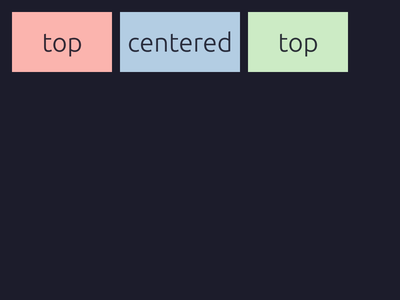
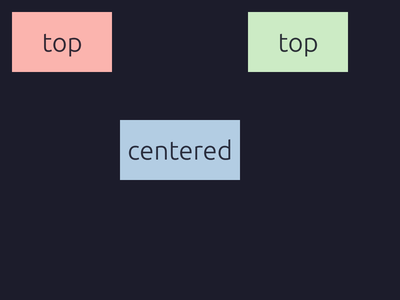
Move flexplore-core to workspace root
crates/flexplore-core/ → flexplore-core/ — simpler layout without the
extra nesting directory.

Changed region(s): [[0.3, 0.39, 0.6, 0.6], [0.3, 0.03, 0.6, 0.24]]

diff --git a/testdata/align_self_center/expected.swift b/testdata/align_self_center/expected.swift
@@ -13,7 +13,7 @@ struct ContentView: View {
                 .frame(width: 120.0, height: 60.0)
                 .padding(8.0)
                 .background(Color(red: 0.70, green: 0.80, blue: 0.89))
-                /* align-self: Center — override manually with .alignmentGuide() */
+                .frame(maxHeight: .infinity, alignment: .center)
             Text("top")
                 .font(.system(size: 26))
                 .foregroundColor(Color(red: 0.05, green: 0.05, blue: 0.1).opacity(0.85))

diff --git a/tools/egui-golden/src/main.rs b/tools/egui-golden/src/main.rs
@@ -16,8 +16,8 @@ use egui::{Align, Color32, Layout, Vec2};
 
 mod config;
 use config::{
-    AlignItems, ColorPalette, FlexDirection, FlexWrap, JustifyContent, LayoutInput, NodeConfig,
-    ValueConfig,
+    AlignItems, AlignSelf, ColorPalette, FlexDirection, FlexWrap, JustifyContent, LayoutInput,
+    NodeConfig, ValueConfig,
 };
 
 /// Render flexplore golden screenshots with egui.
@@ -233,6 +233,56 @@ fn load_jobs(testdata_dir: &Path, filter: &[&str]) -> Result<Vec<RenderJob>> {
 
 // ─── Widget building ────────────────────────────────────────────────────────
 
+/// Allocate space for a widget, applying align-self positioning if needed.
+///
+/// When `align_self` overrides the parent's cross-axis alignment, we allocate
+/// the full cross-axis space and position the child within it.
+fn allocate_with_align_self(
+    ui: &mut egui::Ui,
+    outer_size: Vec2,
+    align_self: AlignSelf,
+    parent_is_row: bool,
+) -> egui::Rect {
+    match align_self {
+        AlignSelf::Center | AlignSelf::FlexStart | AlignSelf::Start | AlignSelf::FlexEnd | AlignSelf::End => {
+            if parent_is_row {
+                let cross_avail = ui.available_height();
+                let alloc_size = Vec2::new(outer_size.x, cross_avail);
+                let (alloc_rect, _) =
+                    ui.allocate_exact_size(alloc_size, egui::Sense::hover());
+
+                let y_offset = match align_self {
+                    AlignSelf::Center => (cross_avail - outer_size.y) / 2.0,
+                    AlignSelf::FlexEnd | AlignSelf::End => cross_avail - outer_size.y,
+                    _ => 0.0,
+                };
+
+                egui::Rect::from_min_size(
+                    alloc_rect.min + Vec2::new(0.0, y_offset),
+                    outer_size,
+                )
+            } else {
+                let cross_avail = ui.available_width();
+                let alloc_size = Vec2::new(cross_avail, outer_size.y);
+                let (alloc_rect, _) =
+                    ui.allocate_exact_size(alloc_size, egui::Sense::hover());
+
+                let x_offset = match align_self {
+                    AlignSelf::Center => (cross_avail - outer_size.x) / 2.0,
+                    AlignSelf::FlexEnd | AlignSelf::End => cross_avail - outer_size.x,
+                    _ => 0.0,
+                };
+
+                egui::Rect::from_min_size(
+                    alloc_rect.min + Vec2::new(x_offset, 0.0),
+                    outer_size,
+                )
+            }
+        }
+        _ => ui.allocate_exact_size(outer_size, egui::Sense::hover()).0,
+    }
+}
+
 /// Get the fixed main-axis size of a child (0.0 if the child uses flex-grow).
 fn child_fixed_main(child: &NodeConfig, is_row: bool) -> f32 {
     if !child.visible {
@@ -401,7 +451,8 @@ fn build_leaf(
     }
 
     let outer_size = Vec2::new(eff_w + margin * 2.0, eff_h + margin * 2.0);
-    let (outer_rect, _) = ui.allocate_exact_size(outer_size, egui::Sense::hover());
+    let outer_rect =
+        allocate_with_align_self(ui, outer_size, node.align_self, parent_is_row);
     let inner_rect = outer_rect.shrink(margin);
 
     ui.painter().rect_filled(inner_rect, 0.0, bg);
@@ -533,7 +584,8 @@ fn build_container(
 
     // Reserve space including margin
     let outer_size = Vec2::new(container_w + margin * 2.0, container_h + margin * 2.0);
-    let (outer_rect, _) = ui.allocate_exact_size(outer_size, egui::Sense::hover());
+    let outer_rect =
+        allocate_with_align_self(ui, outer_size, node.align_self, parent_is_row);
     let inner_rect = outer_rect.shrink(margin + padding);
 
     // Paint background

diff --git a/flexplore-core/src/codegen/egui.rs b/flexplore-core/src/codegen/egui.rs
@@ -18,6 +18,15 @@ fn is_zero_px(v: &ValueConfig) -> bool {
     matches!(v, ValueConfig::Px(n) if *n == 0.0)
 }
 
+fn egui_align_self_main(a: AlignSelf) -> Option<&'static str> {
+    match a {
+        AlignSelf::Center => Some("egui::Align::Center"),
+        AlignSelf::FlexStart | AlignSelf::Start => Some("egui::Align::Min"),
+        AlignSelf::FlexEnd | AlignSelf::End => Some("egui::Align::Max"),
+        _ => None,
+    }
+}
+
 fn egui_size(v: &ValueConfig, axis: &str) -> String {
     match v {
         ValueConfig::Auto => format!("/* auto {axis} */"),
@@ -209,7 +218,7 @@ fn emit_egui_node(
                 node.flex_basis.display_short()
             )?;
         }
-        if node.align_self != AlignSelf::Auto {
+        if egui_align_self_main(node.align_self).is_none() && node.align_self != AlignSelf::Auto {
             writeln!(buf)?;
             write!(
                 buf,
@@ -342,13 +351,14 @@ fn emit_egui_node(
         }
         if needs_justify {
             writeln!(buf)?;
-            write!(
+            writeln!(
                 buf,
-                "{pad}            .with_main_justify(true) // approximate {:?}",
+                "{pad}            .with_main_justify(true); // approximate {:?}",
                 jc
             )?;
+        } else {
+            writeln!(buf, ";")?;
         }
-        writeln!(buf, ";")?;
 
         if needs_center {
             writeln!(
@@ -420,16 +430,44 @@ fn emit_egui_node(
 
         for (child, start) in children.iter().zip(starts.iter()) {
             let mut idx = *start;
-            emit_egui_node(
-                buf,
-                child,
-                depth + 3,
-                &mut idx,
-                palette,
-                is_row,
-                stretch,
-                false,
-            )?;
+            if let Some(main_align) = egui_align_self_main(child.align_self) {
+                let child_pad = "    ".repeat(depth + 3);
+                let wrapper_dir = if is_row {
+                    "egui::Layout::top_down(egui::Align::Min)"
+                } else {
+                    "egui::Layout::left_to_right(egui::Align::Min)"
+                };
+                let fill_axis = if is_row {
+                    "ui.set_min_height(ui.available_height());"
+                } else {
+                    "ui.set_min_width(ui.available_width());"
+                };
+                writeln!(buf, "{child_pad}ui.with_layout({wrapper_dir}.with_main_align({main_align}), |ui| {{")?;
+                writeln!(buf, "{child_pad}    {fill_axis}")?;
+                emit_egui_node(
+                    buf,
+                    child,
+                    depth + 4,
+                    &mut idx,
+                    palette,
+                    is_row,
+                    stretch,
+                    false,
+                )?;
+                writeln!(buf, ";")?;
+                write!(buf, "{child_pad}}})")?;
+            } else {
+                emit_egui_node(
+                    buf,
+                    child,
+                    depth + 3,
+                    &mut idx,
+                    palette,
+                    is_row,
+                    stretch,
+                    false,
+                )?;
+            }
             writeln!(buf, ";")?;
         }
 
@@ -457,7 +495,7 @@ fn emit_egui_node(
                 node.flex_basis.display_short()
             )?;
         }
-        if node.align_self != AlignSelf::Auto {
+        if egui_align_self_main(node.align_self).is_none() && node.align_self != AlignSelf::Auto {
             writeln!(
                 buf,
                 "{pad}        // NOTE: align-self: {:?} — no per-child override in egui",

diff --git a/testdata/align_self_center/expected.egui.rs b/testdata/align_self_center/expected.egui.rs
@@ -16,16 +16,18 @@ fn build_ui(ui: &mut egui::Ui) {
                             ui.label(egui::RichText::new("top").size(26.0).color(egui::Color32::from_rgba_premultiplied(13, 13, 26, 217)));
                         });
                     });
-                egui::Frame::none()
-                    .fill(egui::Color32::from_rgb(179, 205, 227))
-                    .inner_margin(8.0)
-                    .show(ui, |ui| {
-                        ui.set_min_size(egui::vec2(120.0, 60.0));
-                        ui.centered_and_justified(|ui| {
-                            ui.label(egui::RichText::new("centered").size(26.0).color(egui::Color32::from_rgba_premultiplied(13, 13, 26, 217)));
+                ui.with_layout(egui::Layout::top_down(egui::Align::Min).with_main_align(egui::Align::Center), |ui| {
+                    ui.set_min_height(ui.available_height());
+                    egui::Frame::none()
+                        .fill(egui::Color32::from_rgb(179, 205, 227))
+                        .inner_margin(8.0)
+                        .show(ui, |ui| {
+                            ui.set_min_size(egui::vec2(120.0, 60.0));
+                            ui.centered_and_justified(|ui| {
+                                ui.label(egui::RichText::new("centered").size(26.0).color(egui::Color32::from_rgba_premultiplied(13, 13, 26, 217)));
+                            });
                         });
-                    })
-                    // NOTE: align-self: Center — no per-child cross-axis override in egui;
+                });
                 egui::Frame::none()
                     .fill(egui::Color32::from_rgb(204, 235, 197))
                     .inner_margin(8.0)

diff --git a/flexplore-core/src/codegen/flutter.rs b/flexplore-core/src/codegen/flutter.rs
@@ -257,9 +257,9 @@ fn emit_flutter_inner(
         let inner_depth = if has_container { depth + 1 } else { depth };
         let ipad = "  ".repeat(inner_depth);
 
-        let eff_jc = effective_justify(node.justify_content, is_reversed);
-
         if node.flex_wrap != FlexWrap::NoWrap {
+            // For Wrap, textDirection/verticalDirection handles axis reversal
+            // natively, so no effective_justify swap or child reversal needed.
             writeln!(buf, "{ipad}Wrap(")?;
             writeln!(
                 buf,
@@ -270,6 +270,13 @@ fn emit_flutter_inner(
                     "Axis.vertical"
                 }
             )?;
+            if is_reversed {
+                if is_row {
+                    writeln!(buf, "{ipad}  textDirection: TextDirection.rtl,")?;
+                } else {
+                    writeln!(buf, "{ipad}  verticalDirection: VerticalDirection.up,")?;
+                }
+            }
             if node.flex_wrap == FlexWrap::WrapReverse {
                 if is_row {
                     writeln!(buf, "{ipad}  verticalDirection: VerticalDirection.up,")?;
@@ -277,7 +284,7 @@ fn emit_flutter_inner(
                     writeln!(buf, "{ipad}  textDirection: TextDirection.rtl,")?;
                 }
             }
-            if let Some(a) = dart_wrap_alignment(eff_jc) {
+            if let Some(a) = dart_wrap_alignment(node.justify_content) {
                 writeln!(buf, "{ipad}  alignment: {a},")?;
             }
             if let Some(ra) = dart_wrap_run_alignment(node.align_content) {

diff --git a/flexplore-core/src/codegen/swiftui.rs b/flexplore-core/src/codegen/swiftui.rs
@@ -112,6 +112,18 @@ fn effective_justify(jc: JustifyContent, is_reversed: bool) -> JustifyContent {
     }
 }
 
+fn swift_align_self(a: AlignSelf, parent_is_row: bool) -> Option<&'static str> {
+    match (a, parent_is_row) {
+        (AlignSelf::Auto, _) => None,
+        (AlignSelf::Center, _) => Some(".center"),
+        (AlignSelf::FlexStart | AlignSelf::Start, true) => Some(".top"),
+        (AlignSelf::FlexStart | AlignSelf::Start, false) => Some(".leading"),
+        (AlignSelf::FlexEnd | AlignSelf::End, true) => Some(".bottom"),
+        (AlignSelf::FlexEnd | AlignSelf::End, false) => Some(".trailing"),
+        _ => None,
+    }
+}
+
 fn swift_h_alignment(a: AlignItems) -> &'static str {
     match a {
         AlignItems::FlexStart | AlignItems::Start => ".leading",
@@ -221,7 +233,13 @@ fn emit_swiftui_node(
         {
             writeln!(buf, "{pad}    .padding({m}) /* margin */",)?;
         }
-        if node.align_self != AlignSelf::Auto {
+        if let Some(alignment) = swift_align_self(node.align_self, parent_is_row) {
+            if parent_is_row {
+                writeln!(buf, "{pad}    .frame(maxHeight: .infinity, alignment: {alignment})")?;
+            } else {
+                writeln!(buf, "{pad}    .frame(maxWidth: .infinity, alignment: {alignment})")?;
+            }
+        } else if node.align_self != AlignSelf::Auto {
             writeln!(
                 buf,
                 "{pad}    /* align-self: {:?} — override manually with .alignmentGuide() */",

diff --git a/testdata/justify_space_between/expected.egui.rs b/testdata/justify_space_between/expected.egui.rs
@@ -6,7 +6,7 @@ fn build_ui(ui: &mut egui::Ui) {
             ui.set_min_size(ui.available_size());
             ui.spacing_mut().item_spacing = egui::vec2(8.0, 0.0);
             let layout = egui::Layout::left_to_right(egui::Align::Min)
-                .with_main_justify(true) // approximate SpaceBetween;
+                .with_main_justify(true); // approximate SpaceBetween
             ui.with_layout(layout, |ui| {
                 egui::Frame::none()
                     .fill(egui::Color32::from_rgb(251, 180, 174))

diff --git a/testdata/tpl_nav_bar/expected.egui.rs b/testdata/tpl_nav_bar/expected.egui.rs
@@ -6,7 +6,7 @@ fn build_ui(ui: &mut egui::Ui) {
             ui.set_min_size(ui.available_size());
             ui.spacing_mut().item_spacing = egui::Vec2::ZERO;
             let layout = egui::Layout::left_to_right(egui::Align::Center)
-                .with_main_justify(true) // approximate SpaceBetween;
+                .with_main_justify(true); // approximate SpaceBetween
             ui.with_layout(layout, |ui| {
                 egui::Frame::none()
                     .fill(egui::Color32::from_rgb(251, 180, 174))

diff --git a/testdata/justify_space_evenly/expected.egui.rs b/testdata/justify_space_evenly/expected.egui.rs
@@ -6,7 +6,7 @@ fn build_ui(ui: &mut egui::Ui) {
             ui.set_min_size(ui.available_size());
             ui.spacing_mut().item_spacing = egui::vec2(8.0, 0.0);
             let layout = egui::Layout::left_to_right(egui::Align::Min)
-                .with_main_justify(true) // approximate SpaceEvenly;
+                .with_main_justify(true); // approximate SpaceEvenly
             ui.with_layout(layout, |ui| {
                 egui::Frame::none()
                     .fill(egui::Color32::from_rgb(251, 180, 174))

diff --git a/flexplore-core/src/codegen/snapshot_tests.rs b/flexplore-core/src/codegen/snapshot_tests.rs
@@ -14,7 +14,7 @@ use crate::fixtures::all_fixtures;
 
 fn testdata_dir() -> PathBuf {
     PathBuf::from(env!("CARGO_MANIFEST_DIR"))
-        .join("../..")
+        .join("..")
         .join("testdata")
 }
 
